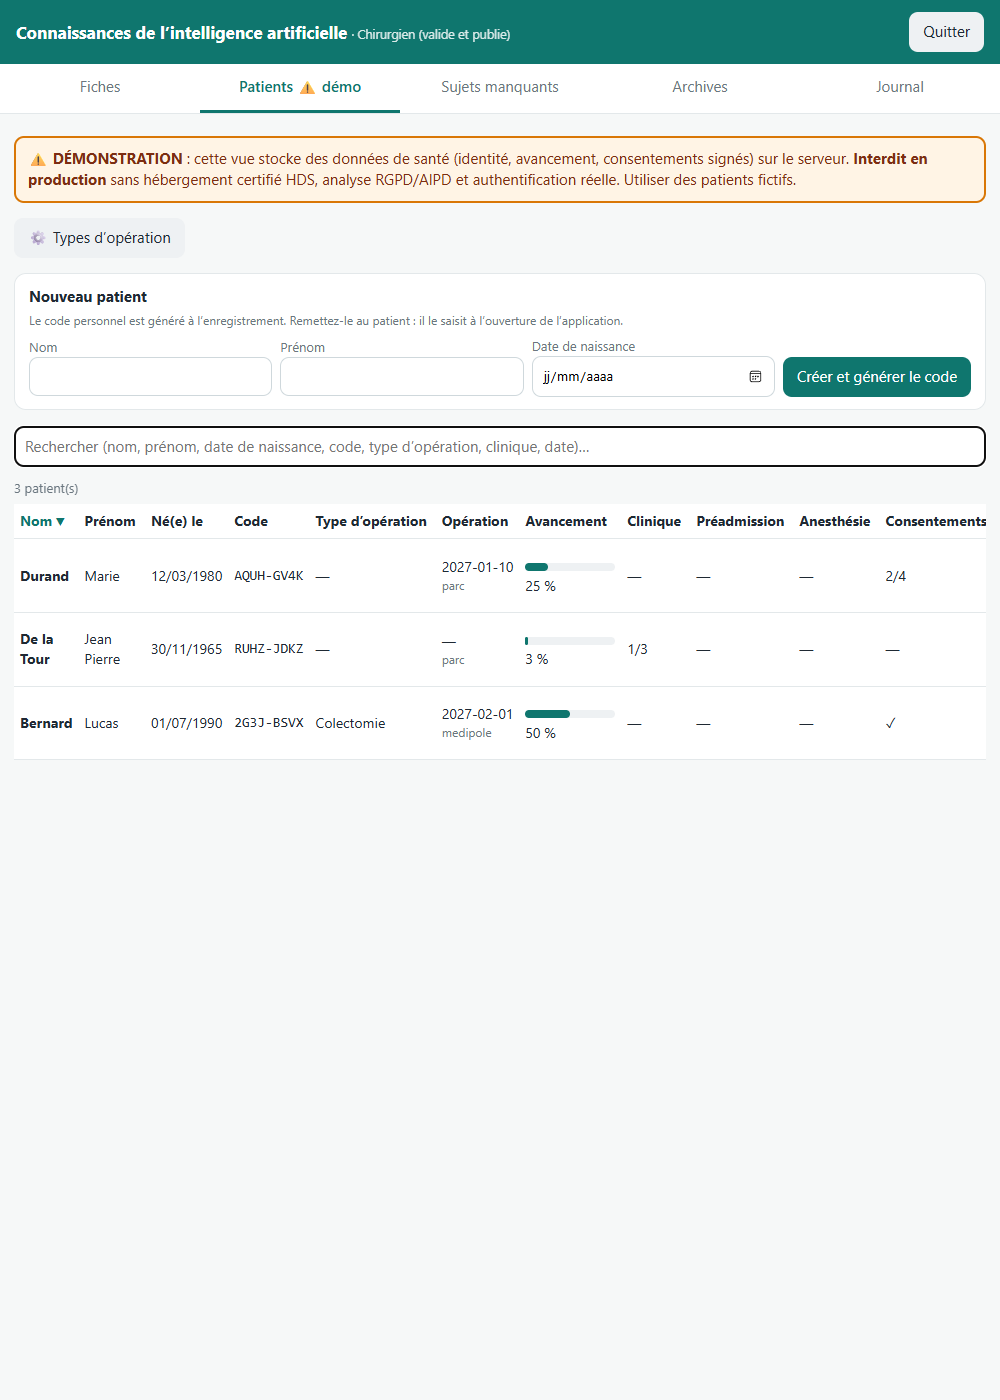
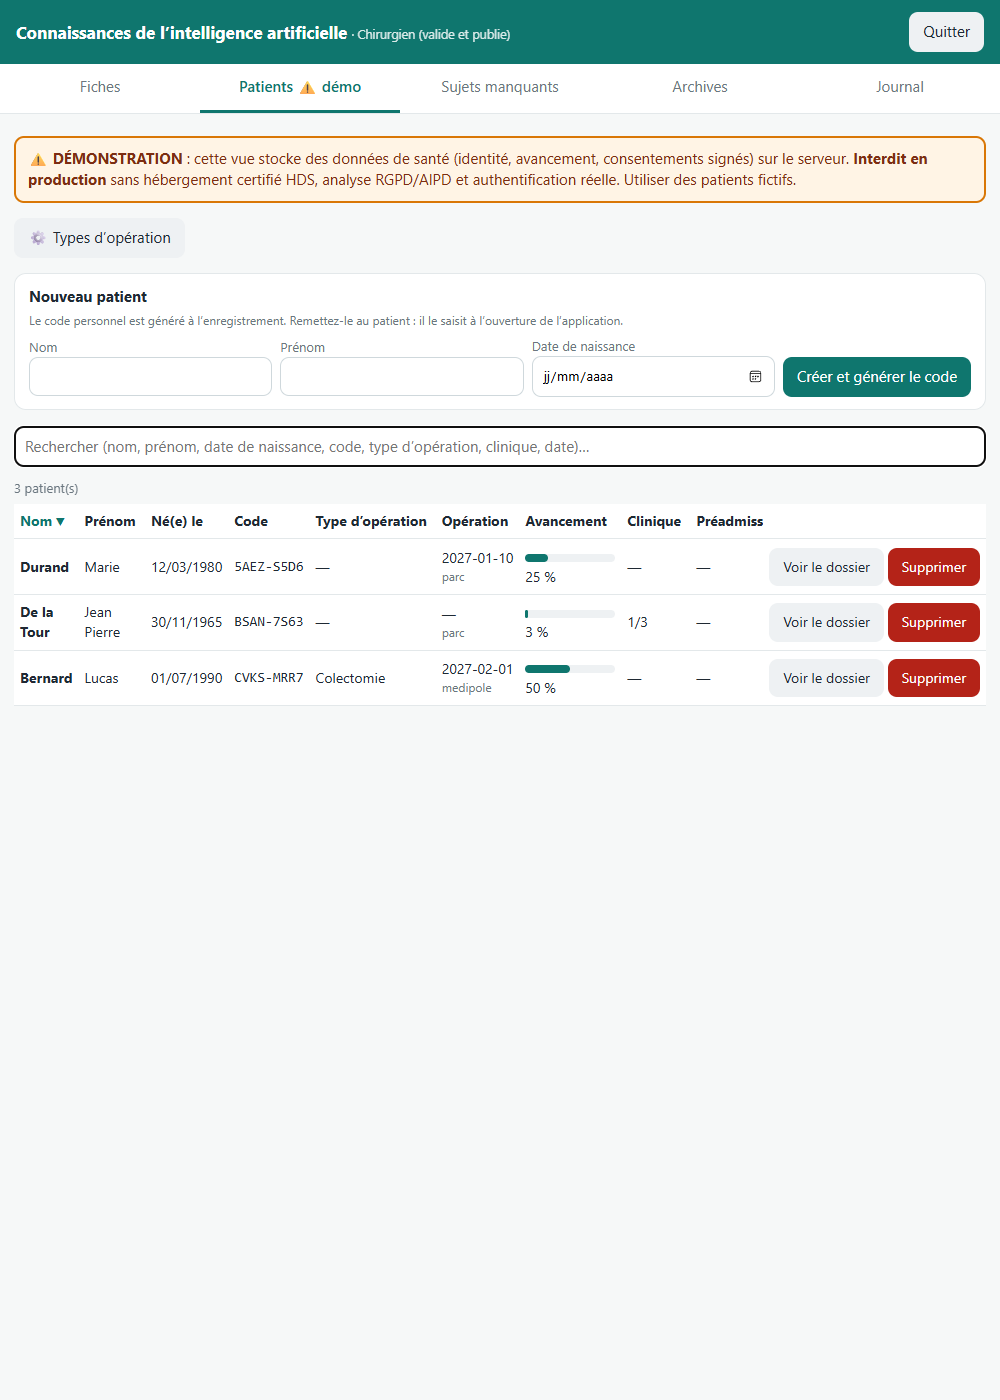
auto(conv-286): Ajoute dans l'onglet Patients de l'admin un bouton pour supprimer un patient (test ou ancien dossier

diff --git a/public/prep.js b/public/prep.js
@@ -1,5 +1,7 @@
 // « Préparation de mon opération » — gardée sur le TÉLÉPHONE du patient (localStorage).
-// ⚠ DÉMO : l'avancement et les signatures sont AUSSI envoyés au serveur (/api/prep) pour la vue « Patients » de l'admin.
+// ⚠ DÉMO : l'avancement, les signatures et, depuis le 2026-10-14, les RÉPONSES (documents cochés, questionnaire
+// d'anesthésie, veille et jour J) sont AUSSI envoyés au serveur (/api/prep) : le secrétariat vérifie dans le dossier
+// de l'admin que tout est bien rempli (demande utilisateur). Le patient en est prévenu en bas de la page.
 // Dérogation à la règle « aucune donnée patient stockée » — interdit en production sans hébergement HDS (voir lib/dossiers.js).
 // Les préadmissions renvoient vers les portails OFFICIELS des cliniques (sources ci-dessous).
 'use strict';
@@ -32,44 +34,13 @@
     medipole: { nom: 'Médipôle Lyon-Villeurbanne', portail: 'https://www.ramsayservices.fr', portailNom: 'Ramsay Services',
       delai: 'au plus tôt, et au moins 10 jours avant l’hospitalisation', tel: '', adresse: 'Villeurbanne — un bureau de préadmission existe aussi au centre de consultation Léon Blum' },
   };
-  const DOCS = [
-    ['identite', 'Pièce d’identité valide (carte d’identité, passeport, titre de séjour)'],
-    ['vitale', 'Carte Vitale et attestation de droits'],
-    ['mutuelle', 'Carte de mutuelle (et prise en charge si demandée)'],
-    ['ald', 'Justificatif ALD / accident du travail / CSS (si concerné)'],
-    ['ordos', 'Ordonnances et liste de tous vos traitements'],
-  ];
-  const ANESTH = [
-    { id: 'poids', q: 'Votre poids (kg)', t: 'num' },
-    { id: 'taille', q: 'Votre taille (cm)', t: 'num' },
-    { id: 'allergie', q: 'Avez-vous des allergies (médicaments, latex, iode, aliments) ?', t: 'ouinon', detail: 'Lesquelles et quelle réaction ?' },
-    { id: 'traitements', q: 'Prenez-vous des médicaments, y compris sans ordonnance ?', t: 'ouinon', detail: 'Noms et doses' },
-    { id: 'anticoag', q: 'Prenez-vous un anticoagulant ou antiagrégant (Eliquis, Xarelto, Kardégic, Plavix…) ?', t: 'ouinon', detail: 'Lequel ?' },
-    { id: 'operations', q: 'Avez-vous déjà été opéré(e) ?', t: 'ouinon', detail: 'Quelles opérations et quand ?' },
-    { id: 'pbanesth', q: 'Problème lors d’une anesthésie (vous ou votre famille) ?', t: 'ouinon', detail: 'Lequel ?' },
-    { id: 'coeur', q: 'Maladie du cœur, hypertension, pacemaker ?', t: 'ouinon', detail: 'Précisez' },
-    { id: 'poumons', q: 'Asthme, bronchite chronique, essoufflement ?', t: 'ouinon', detail: 'Précisez' },
-    { id: 'apnee', q: 'Apnée du sommeil (avec ou sans appareil) ?', t: 'ouinon' },
-    { id: 'diabete', q: 'Diabète ?', t: 'ouinon', detail: 'Traitement (comprimés, insuline)' },
-    { id: 'reinfoie', q: 'Maladie des reins ou du foie ?', t: 'ouinon', detail: 'Précisez' },
-    { id: 'saignement', q: 'Saignez-vous facilement (bleus, saignements prolongés) ?', t: 'ouinon' },
-    { id: 'tabac', q: 'Fumez-vous ?', t: 'ouinon', detail: 'Combien par jour ?' },
-    { id: 'alcool', q: 'Buvez-vous de l’alcool tous les jours ?', t: 'ouinon' },
-    { id: 'dents', q: 'Prothèse dentaire, dent qui bouge ?', t: 'ouinon' },
-    { id: 'grossesse', q: 'Grossesse possible ou en cours ?', t: 'ouinon_na' },
-  ];
+  // Documents, questionnaire d'anesthésie et liste du jour J : public/formulaire.js (liste partagée avec l'admin et le serveur).
+  const { DOCS, ANESTH, JOURJ } = window.PREP_FORMULAIRE;
   const CONSENTS = [
     ['chir', 'Consentement éclairé pour l’opération', 'Remis par le chirurgien après l’explication de l’intervention.'],
     ['anesth', 'Consentement pour l’anesthésie', 'Remis lors de la consultation d’anesthésie.'],
     ['confiance', 'Désignation de la personne de confiance', 'Formulaire de la clinique, à remplir à l’admission ou avant.'],
     ['devis', 'Devis / information sur les honoraires', 'Si des dépassements d’honoraires sont prévus.'],
-  ];
-  const JOURJ = [
-    ['jeun', 'Je connais mes heures de jeûne (fixées par l’anesthésiste)'],
-    ['douche', 'Douche(s) faite(s) selon la fiche de la clinique'],
-    ['bijoux', 'Bijoux, piercings, vernis et maquillage retirés'],
-    ['docs', 'Documents, ordonnances et examens dans mon sac'],
-    ['retour', 'Retour organisé (accompagnant obligatoire en ambulatoire)'],
   ];
 
   let S = load();
@@ -77,7 +48,7 @@
   function save() { localStorage.setItem(KEY, JSON.stringify(S)); render(); envoyer(); }
   // Identité et dossier : désignés par le CODE PERSONNEL créé par le secrétariat (2026-10-14). Le téléphone n'envoie
   // donc ni identifiant ni nom, le serveur les tient du code.
-  // Envoi (démo) : ni le questionnaire d'anesthésie ni les documents cochés, seulement l'avancement et les signatures.
+  // Envoi (démo) : avancement, signatures et réponses du formulaire (le serveur ne garde que les questions de formulaire.js).
   // Envoi immédiat, en file (un seul à la fois, le dernier état gagne) : un minuteur différé était perdu
   // quand la page enchaînait l'impression (mesuré dans test/prep-ui.cjs, 2026-10-05).
   let enCours = null, enAttente = false;
@@ -85,7 +56,8 @@
     if (enCours) { enAttente = true; return; }
     const code = localStorage.getItem('code'); if (!code) return;
     enCours = fetch('/api/prep', { method: 'POST', headers: { 'Content-Type': 'application/json', 'x-access-code': code },
-      body: JSON.stringify({ clinique: g('clinique', ''), date: g('date', ''), operation: g('operation', ''), progression: progress(), signatures: Object.fromEntries(Object.entries(g('sig', {})).filter(([k]) => consentsActifs().some(c => c[0] === k))) }) })
+      body: JSON.stringify({ clinique: g('clinique', ''), date: g('date', ''), operation: g('operation', ''), progression: progress(),
+        formulaire: { docs: g('docs', {}), preadmFaite: !!g('preadmFaite'), anesth: g('anesth', {}), anesthDetail: g('anesthDetail', {}), jourj: g('jourj', {}) }, signatures: Object.fromEntries(Object.entries(g('sig', {})).filter(([k]) => consentsActifs().some(c => c[0] === k))) }) })
       .catch(e => console.warn('[prep] envoi au service échoué', e))
       .finally(() => { enCours = null; if (enAttente) { enAttente = false; envoyer(); } });
   }
@@ -205,7 +177,7 @@
       ${cur ? `<div class="maint" data-testid="maintenant"><div class="kick">À faire maintenant</div>${step(cur, BODY[cur], P[cur][1] - P[cur][0])}</div>` : ''}
       ${autres.map(k => step(k, BODY[k], P[k][1] - P[k][0])).join('')}
       ${faits.length ? `<details class="faits" ${faits.includes(open) ? 'open' : ''}><summary>${faits.length} étape${faits.length > 1 ? 's' : ''} terminée${faits.length > 1 ? 's' : ''} ▾</summary>${faits.map(k => step(k, BODY[k], 0)).join('')}</details>` : ''}
-      <p class="note" data-testid="demo-envoi">⚠ <b>Démonstration</b> : votre avancement et vos signatures sont transmis au service. Le questionnaire d’anesthésie reste sur ce téléphone.</p>
+      <p class="note" data-testid="demo-envoi">⚠ <b>Démonstration</b> : vos réponses (questionnaire d’anesthésie compris), votre avancement et vos signatures sont transmis au secrétariat et au chirurgien, qui vérifient que tout est rempli.</p>
       <button type="button" class="lnk" data-act="reset">Effacer mes informations de ce téléphone</button>
       <div id="print-area"></div>`;
   }
@@ -302,4 +274,7 @@
 
   window.Prep = { render };
   render();
+  // Préparation déjà commencée (dont celle remplie avant l'envoi des réponses, 2026-10-14) : renvoyée une fois à
+  // l'ouverture, pour que le dossier du secrétariat soit complet sans attendre la prochaine modification.
+  if (Object.keys(S).some(k => !k.startsWith('_'))) envoyer();
 })();

diff --git a/lib/dossiers.js b/lib/dossiers.js
@@ -1,4 +1,5 @@
-// ⚠ DÉMO UNIQUEMENT — stockage des dossiers de préparation (avancement + consentements signés) sur le serveur.
+// ⚠ DÉMO UNIQUEMENT — stockage des dossiers de préparation (avancement, consentements signés et, depuis le
+// 2026-10-14, réponses du formulaire dont le questionnaire d'anesthésie) sur le serveur.
 // Ceci DÉROGE à la règle du projet « aucune donnée de patient stockée » (choix utilisateur du 2026-10-05, pour la démonstration).
 // En production : hébergement certifié données de santé (HDS), analyse RGPD/AIPD, chiffrement et authentification réelle obligatoires.
 // Décision du 2026-10-14 : c'est le SECRÉTARIAT qui crée le dossier dans l'admin (nom, prénom, date de naissance) ;
@@ -26,6 +27,24 @@ function naissanceValide(s) {
   return !isNaN(d) && d.toISOString().slice(0, 10) === s && s >= '1900-01-01' && s <= new Date().toISOString().slice(0, 10);
 }
 const cle = s => String(s || '').normalize('NFD').replace(/[̀-ͯ]/g, '').toLowerCase().replace(/[^a-z]/g, '');
+
+// Réponses du formulaire envoyées par le téléphone (2026-10-14, pour que le secrétariat vérifie le remplissage).
+// Seules les questions de public/formulaire.js sont gardées, avec des valeurs bornées : rien d'autre n'est stocké.
+const FORM = require('../public/formulaire.js');
+function nettoyerFormulaire(f) {
+  if (!f || typeof f !== 'object') return null;
+  const o = v => (v && typeof v === 'object' ? v : {});
+  const docs = {}, jourj = {}, anesth = {}, anesthDetail = {};
+  for (const [k] of FORM.DOCS) docs[k] = o(f.docs)[k] === true;
+  for (const [k] of FORM.JOURJ) jourj[k] = o(f.jourj)[k] === true;
+  for (const x of FORM.ANESTH) {
+    const v = o(f.anesth)[x.id];
+    if (x.t === 'num') { const n = String(v ?? '').replace(/[^\d,.]/g, '').slice(0, 6); if (n) anesth[x.id] = n; }
+    else if ((x.t === 'ouinon_na' ? ['oui', 'non', 'na'] : ['oui', 'non']).includes(v)) anesth[x.id] = v;
+    if (x.detail && anesth[x.id] === 'oui') { const d = texte(o(f.anesthDetail)[x.id], 300); if (d) anesthDetail[x.id] = d; }
+  }
+  return { docs, preadmFaite: f.preadmFaite === true, anesth, anesthDetail, jourj };
+}
 
 // operations : lib/operations.js — le type d'opération enregistré doit exister dans les types réglés par le chirurgien.
 function createDossiers(dir, operations) {
@@ -89,10 +108,25 @@ function createDossiers(dir, operations) {
       ...ancien,
       operation: operations && operations.liste().some(o => o.id === op) ? op : '',
       clinique: String(B.clinique || '').slice(0, 30), date: /^\d{4}-\d{2}-\d{2}$/.test(B.date || '') ? B.date : '',
+      // Téléphone d'avant l'envoi des réponses : pas de formulaire dans la synchro, on garde ce qu'on avait.
+      formulaire: nettoyerFormulaire(B.formulaire) || ancien.formulaire || null,
       progression, signatures, majLe: new Date().toISOString(),
     };
     fs.writeFileSync(fileOf(id), JSON.stringify(d));
     return { ok: true };
+  }
+
+  // Suppression par le chirurgien (dossier de test, ancien dossier sans code). Le dossier quitte la liste et son code
+  // n'ouvre plus rien ; une copie est d'abord écrite dans corbeille/ (récupérable à la main), puis l'original est effacé.
+  function supprimer(id, par) {
+    id = String(id || '');
+    const d = /^[a-f0-9]{16}$/.test(id) && lire(id);
+    if (!d) throw new Error('dossier introuvable');
+    const corbeille = path.join(dir, 'corbeille');
+    fs.mkdirSync(corbeille, { recursive: true });
+    fs.writeFileSync(path.join(corbeille, id + '-' + Date.now() + '.json'), JSON.stringify({ ...d, supprimeLe: new Date().toISOString(), supprimePar: String(par || '') }));
+    fs.unlinkSync(fileOf(id));
+    return { ok: true, patient: d.patient };
   }
   function resume(d) {
     const tot = Object.values(d.progression).reduce((a, [f, t]) => [a[0] + f, a[1] + t], [0, 0]);
@@ -102,6 +136,6 @@ function createDossiers(dir, operations) {
   }
   const liste = () => tous().map(resume).sort((a, b) => (a.date || '9') < (b.date || '9') ? -1 : 1);
   const detail = id => { const d = /^[a-f0-9]{16}$/.test(String(id)) && lire(id); if (!d) throw new Error('dossier introuvable'); return d; };
-  return { creer, parCode, enregistrer, liste, detail };
+  return { creer, parCode, enregistrer, supprimer, liste, detail };
 }
-module.exports = { createDossiers, normCode };
+module.exports = { createDossiers, normCode, nettoyerFormulaire };

diff --git a/public/formulaire.js b/public/formulaire.js
@@ -1,0 +1,42 @@
+// Questions de « Préparation de mon opération » : UNE seule liste, lue par le téléphone (prep.js), la vue du dossier
+// dans l'admin (admin.html) et le serveur (lib/dossiers.js, qui ne garde que les réponses à ces questions-là).
+// Ajouter une question ici l'ajoute partout.
+'use strict';
+(function (racine) {
+  const F = {
+    DOCS: [
+      ['identite', 'Pièce d’identité valide (carte d’identité, passeport, titre de séjour)'],
+      ['vitale', 'Carte Vitale et attestation de droits'],
+      ['mutuelle', 'Carte de mutuelle (et prise en charge si demandée)'],
+      ['ald', 'Justificatif ALD / accident du travail / CSS (si concerné)'],
+      ['ordos', 'Ordonnances et liste de tous vos traitements'],
+    ],
+    ANESTH: [
+      { id: 'poids', q: 'Votre poids (kg)', t: 'num' },
+      { id: 'taille', q: 'Votre taille (cm)', t: 'num' },
+      { id: 'allergie', q: 'Avez-vous des allergies (médicaments, latex, iode, aliments) ?', t: 'ouinon', detail: 'Lesquelles et quelle réaction ?' },
+      { id: 'traitements', q: 'Prenez-vous des médicaments, y compris sans ordonnance ?', t: 'ouinon', detail: 'Noms et doses' },
+      { id: 'anticoag', q: 'Prenez-vous un anticoagulant ou antiagrégant (Eliquis, Xarelto, Kardégic, Plavix…) ?', t: 'ouinon', detail: 'Lequel ?' },
+      { id: 'operations', q: 'Avez-vous déjà été opéré(e) ?', t: 'ouinon', detail: 'Quelles opérations et quand ?' },
+      { id: 'pbanesth', q: 'Problème lors d’une anesthésie (vous ou votre famille) ?', t: 'ouinon', detail: 'Lequel ?' },
+      { id: 'coeur', q: 'Maladie du cœur, hypertension, pacemaker ?', t: 'ouinon', detail: 'Précisez' },
+      { id: 'poumons', q: 'Asthme, bronchite chronique, essoufflement ?', t: 'ouinon', detail: 'Précisez' },
+      { id: 'apnee', q: 'Apnée du sommeil (avec ou sans appareil) ?', t: 'ouinon' },
+      { id: 'diabete', q: 'Diabète ?', t: 'ouinon', detail: 'Traitement (comprimés, insuline)' },
+      { id: 'reinfoie', q: 'Maladie des reins ou du foie ?', t: 'ouinon', detail: 'Précisez' },
+      { id: 'saignement', q: 'Saignez-vous facilement (bleus, saignements prolongés) ?', t: 'ouinon' },
+      { id: 'tabac', q: 'Fumez-vous ?', t: 'ouinon', detail: 'Combien par jour ?' },
+      { id: 'alcool', q: 'Buvez-vous de l’alcool tous les jours ?', t: 'ouinon' },
+      { id: 'dents', q: 'Prothèse dentaire, dent qui bouge ?', t: 'ouinon' },
+      { id: 'grossesse', q: 'Grossesse possible ou en cours ?', t: 'ouinon_na' },
+    ],
+    JOURJ: [
+      ['jeun', 'Je connais mes heures de jeûne (fixées par l’anesthésiste)'],
+      ['douche', 'Douche(s) faite(s) selon la fiche de la clinique'],
+      ['bijoux', 'Bijoux, piercings, vernis et maquillage retirés'],
+      ['docs', 'Documents, ordonnances et examens dans mon sac'],
+      ['retour', 'Retour organisé (accompagnant obligatoire en ambulatoire)'],
+    ],
+  };
+  if (typeof module === 'object' && module.exports) module.exports = F; else racine.PREP_FORMULAIRE = F;
+})(typeof window !== 'undefined' ? window : globalThis);

diff --git a/public/sw.js b/public/sw.js
@@ -1,6 +1,6 @@
 // Service worker minimal : met en cache l'interface (les réponses ne sont jamais mises en cache).
-const C = 'suivi-v9';
-self.addEventListener('install', e => e.waitUntil(caches.open(C).then(c => c.addAll(['/', '/manifest.webmanifest', '/icon.svg', '/consentements.js', '/prep.js']))));
+const C = 'suivi-v10';
+self.addEventListener('install', e => e.waitUntil(caches.open(C).then(c => c.addAll(['/', '/manifest.webmanifest', '/icon.svg', '/consentements.js', '/formulaire.js', '/prep.js']))));
 self.addEventListener('fetch', e => {
   if (e.request.method !== 'GET' || e.request.url.includes('/api/')) return;
   e.respondWith(fetch(e.request).catch(() => caches.match(e.request)));

diff --git a/CLAUDE.md b/CLAUDE.md
@@ -7,6 +7,6 @@ Règles du projet :
 - Sans fiche qui couvre la question (décision du 2026-10-07) : le patient lit quand même la réponse générale et prudente du modèle, marquée « non relue par le chirurgien », avec le bouton de rappel. La question et cette réponse deviennent une PROPOSITION de nouvelle fiche dans l'admin (`admin-data/propositions.json`). Le chirurgien la corrige puis la publie, ou la rejette.
 - Le tri des urgences (`lib/redflags.js`) passe AVANT le modèle et reste en règles fixes.
 - Aucune identité de patient n'est stockée. Seule exception pour les questions : une question sans fiche est gardée dans la proposition admin.
-- Exception de DÉMONSTRATION, les dossiers de préparation (`lib/dossiers.js`, interdit en production sans hébergement HDS) : depuis le 2026-10-14, le secrétariat crée le patient dans l'admin (nom, prénom, date de naissance), ce qui génère son code personnel. Le patient n'entre qu'avec ce code ; l'ancien code commun `ACCESS_CODE` n'ouvre plus l'application.
+- Exception de DÉMONSTRATION, les dossiers de préparation (`lib/dossiers.js`, interdit en production sans hébergement HDS) : depuis le 2026-10-14, le secrétariat crée le patient dans l'admin (nom, prénom, date de naissance), ce qui génère son code personnel. Le patient n'entre qu'avec ce code ; l'ancien code commun `ACCESS_CODE` n'ouvre plus l'application. Ses réponses de préparation (questionnaire d'anesthésie compris) sont envoyées au serveur pour que le secrétariat vérifie le remplissage ; seul le chirurgien supprime un patient (copie en corbeille).
 - Une fiche n'est fiable que si `validated:true`, ce qui suppose une relecture par le chirurgien.
 - Après chaque modification : `node test/run.js` doit rester vert.
